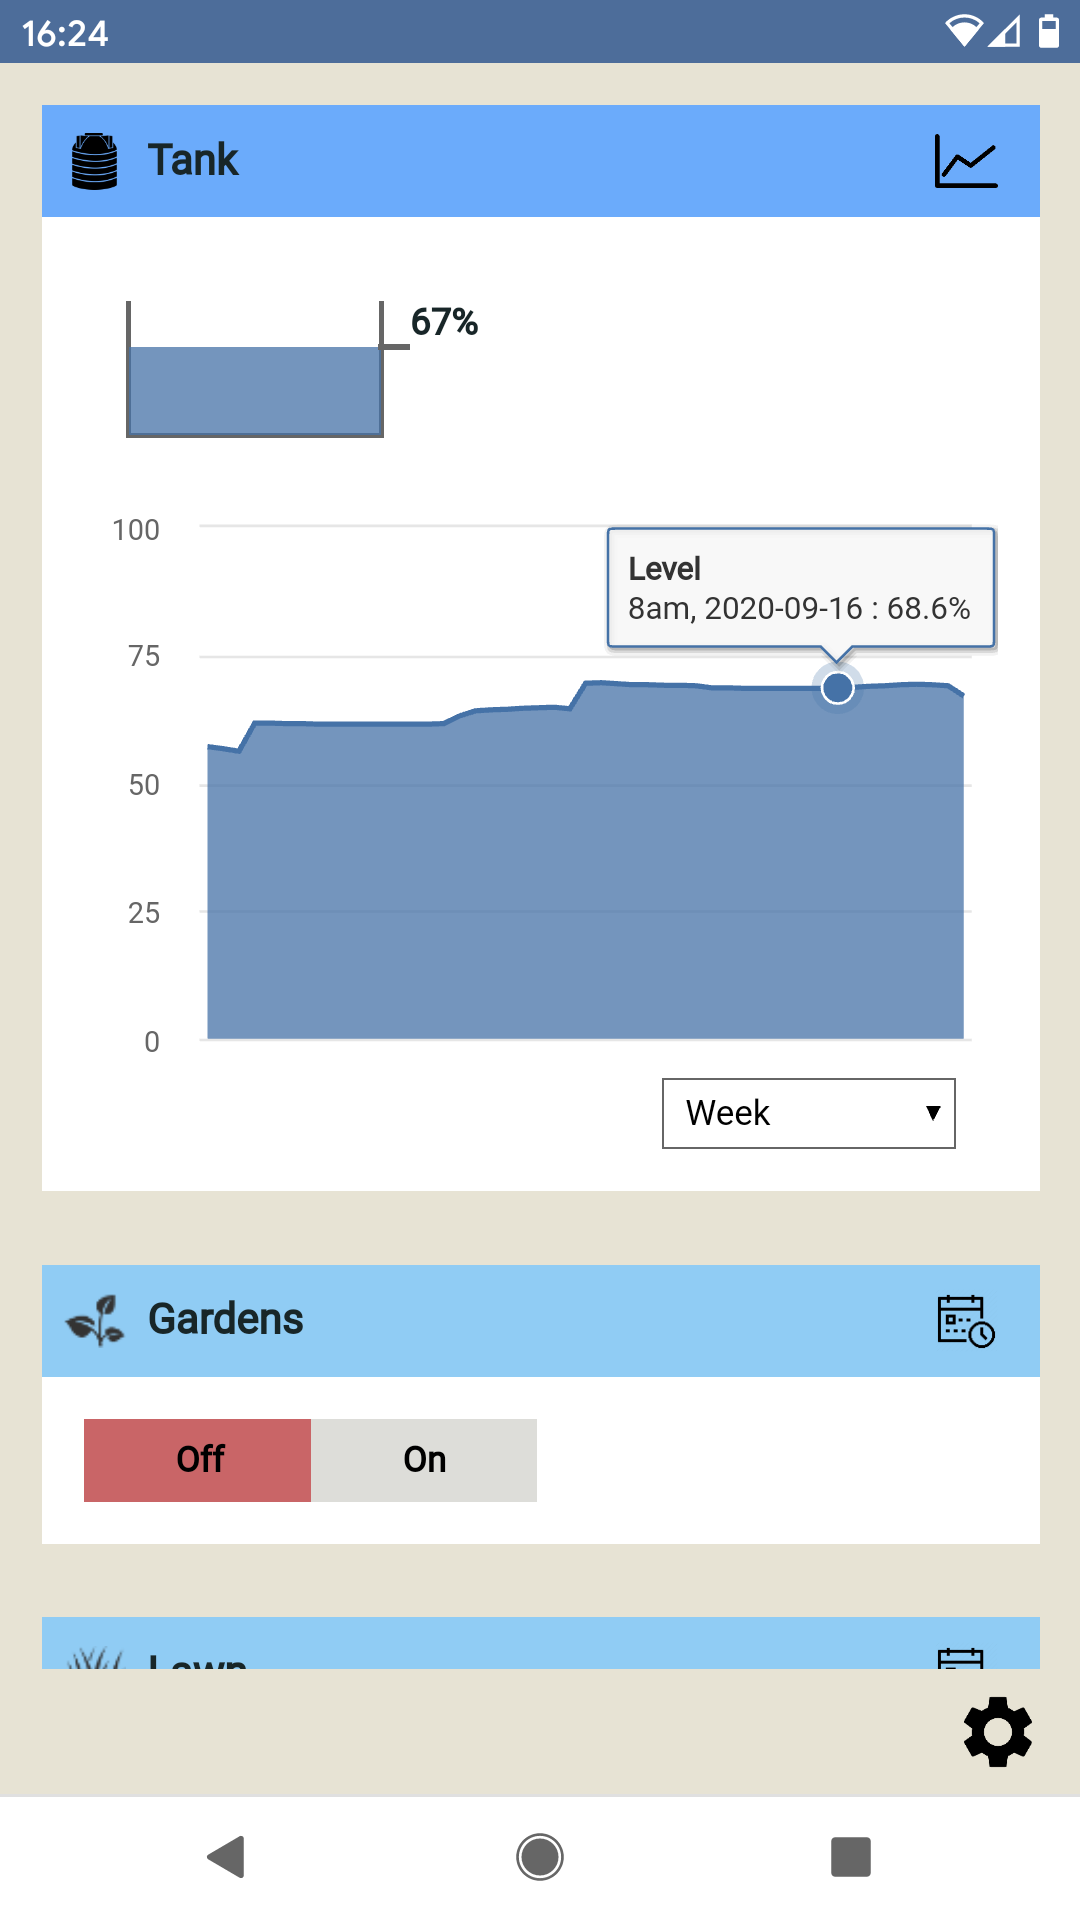
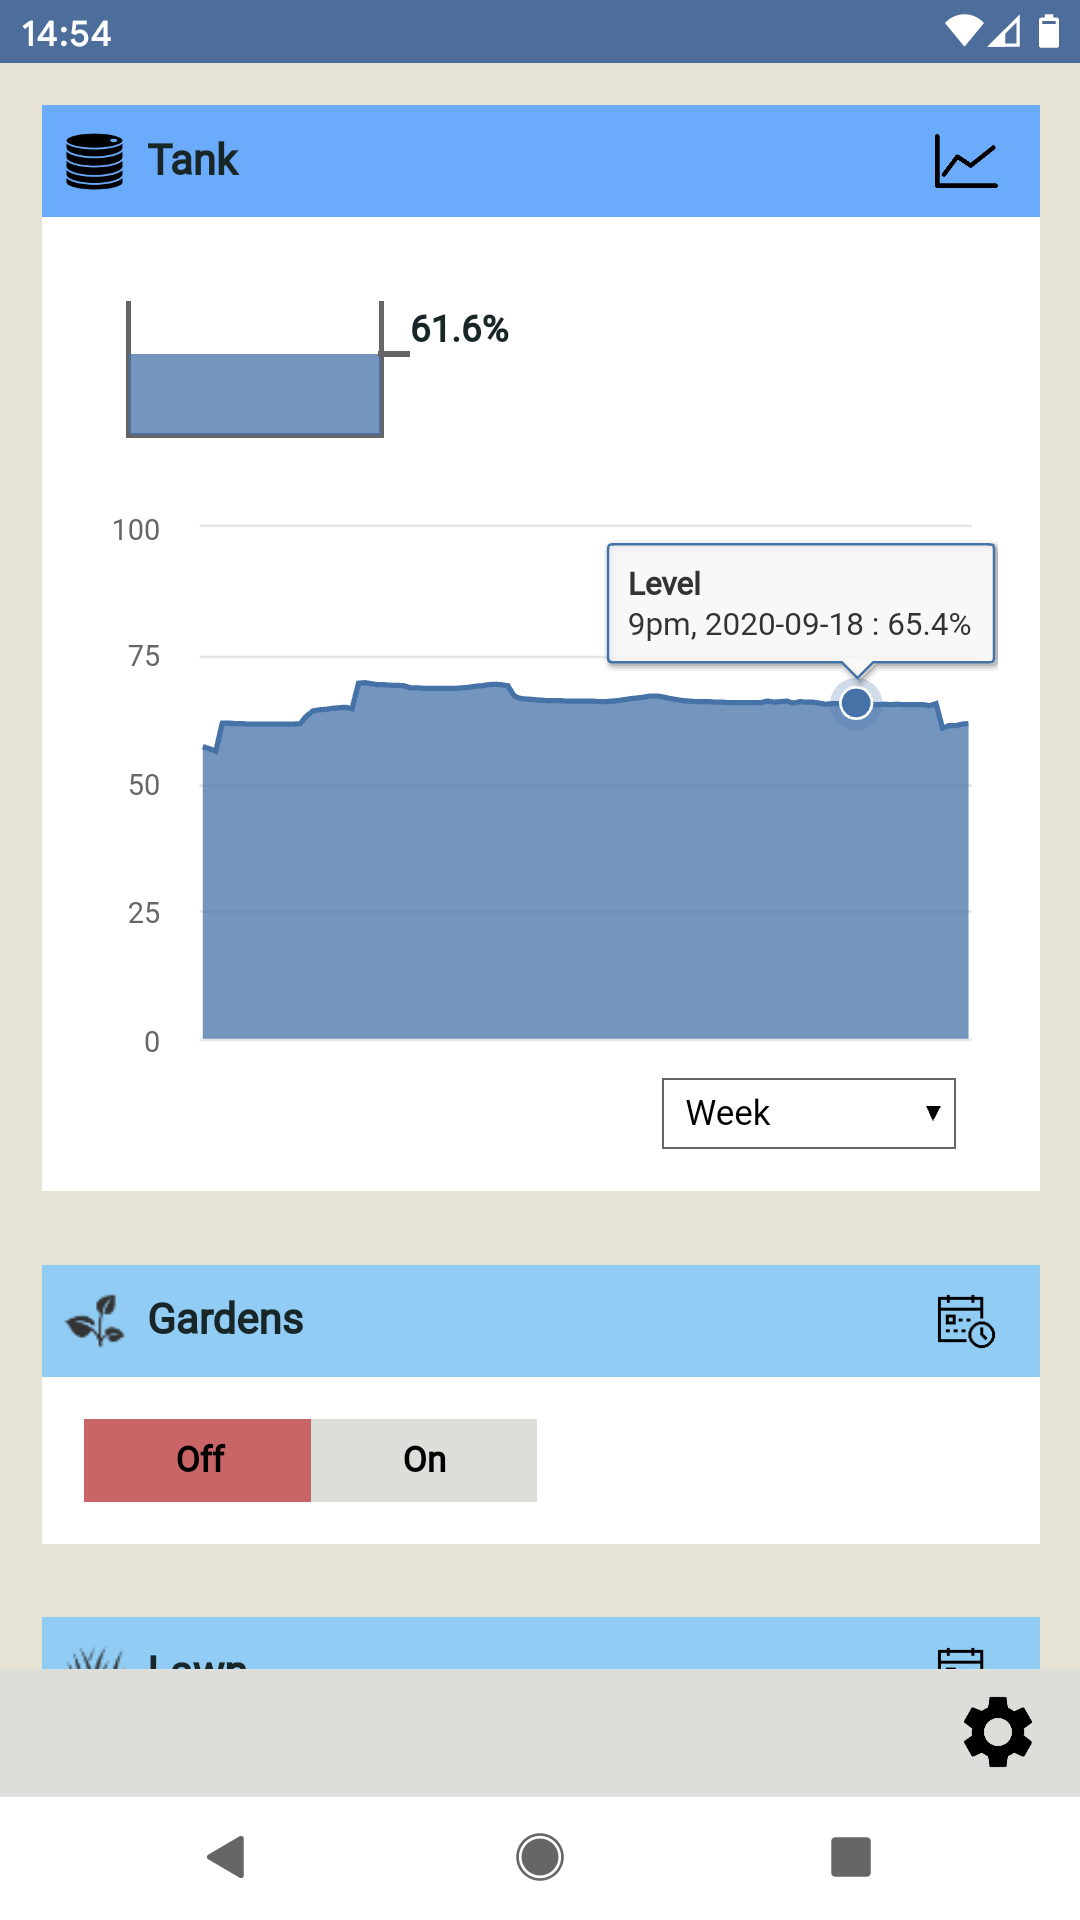
CSS tweaks

diff --git a/css/main.css b/css/main.css
@@ -123,6 +123,7 @@ button {
 	cursor: pointer;
 	font-family: 'Roboto', sans-serif;
 	font-weight: 600;
+	outline: none;
 }
 button.primary {
 	background-color: #ddddd9;
@@ -202,7 +203,7 @@ button.secondary + button.secondary {
 }
 /* Footer */
 #footer {
-	background-color: #e7e3d4;
+	background-color: #ddddd9;
 	bottom: 0;
 	left: 0;
 	padding: .5rem 1rem;
@@ -216,7 +217,11 @@ button.secondary + button.secondary {
 	float: right;
 	height: 2rem;
 	text-indent: -9999rem;
+	transition: all 1s;
 	width: 2rem;
+}
+#footer button#settings.active {
+	transform: rotate(90deg);
 }
 #footer .extended {
 	clear: right;

diff --git a/cron.php b/cron.php
@@ -38,7 +38,7 @@ if (date('gi') % 100 == 0) {
 	// Take a bunch of measurements
 	$measurements = array();
 	$i = 0;
-	while ($i < 16) {
+	while ($i < 24) {
 		$measurements[$i] = shell_exec('python /var/www/html/measure.py');
 		$i++;
 	}
@@ -50,7 +50,7 @@ if (date('gi') % 100 == 0) {
 	});
 	// Average the remainders
 	$average_measurement = array_sum($trimmed_measurements) / count($trimmed_measurements);
-	// Write to file	
+	// Write to file
 	$level =  time() .'|'. $average_measurement;
 	file_put_contents('/var/www/html/data/levels',$level . "\n", FILE_APPEND);
 	file_put_contents('/var/www/html/data/level',$level);

diff --git a/README.md b/README.md
@@ -7,4 +7,4 @@
 - Web-browser based UI, served over local network
 
 ## Screenshots
-<img src="https://github.com/Chris820/irrigation_system/blob/master/screen-1.png" alt="" width="250" height="445" /> <img src="https://github.com/Chris820/irrigation_system/blob/master/screen-2.png" alt="" width="250" height="445" />
+<img src="https://github.com/Chris820/irrigation_system/blob/master/screen-1.png" alt="" width="250" height="445" /> <img src="https://github.com/Chris820/irrigation_system/blob/master/screen-2.png" alt="" width="250" height="445" /> <img src="https://github.com/Chris820/irrigation_system/blob/master/screen-3.png" alt="" width="250" height="445" />
